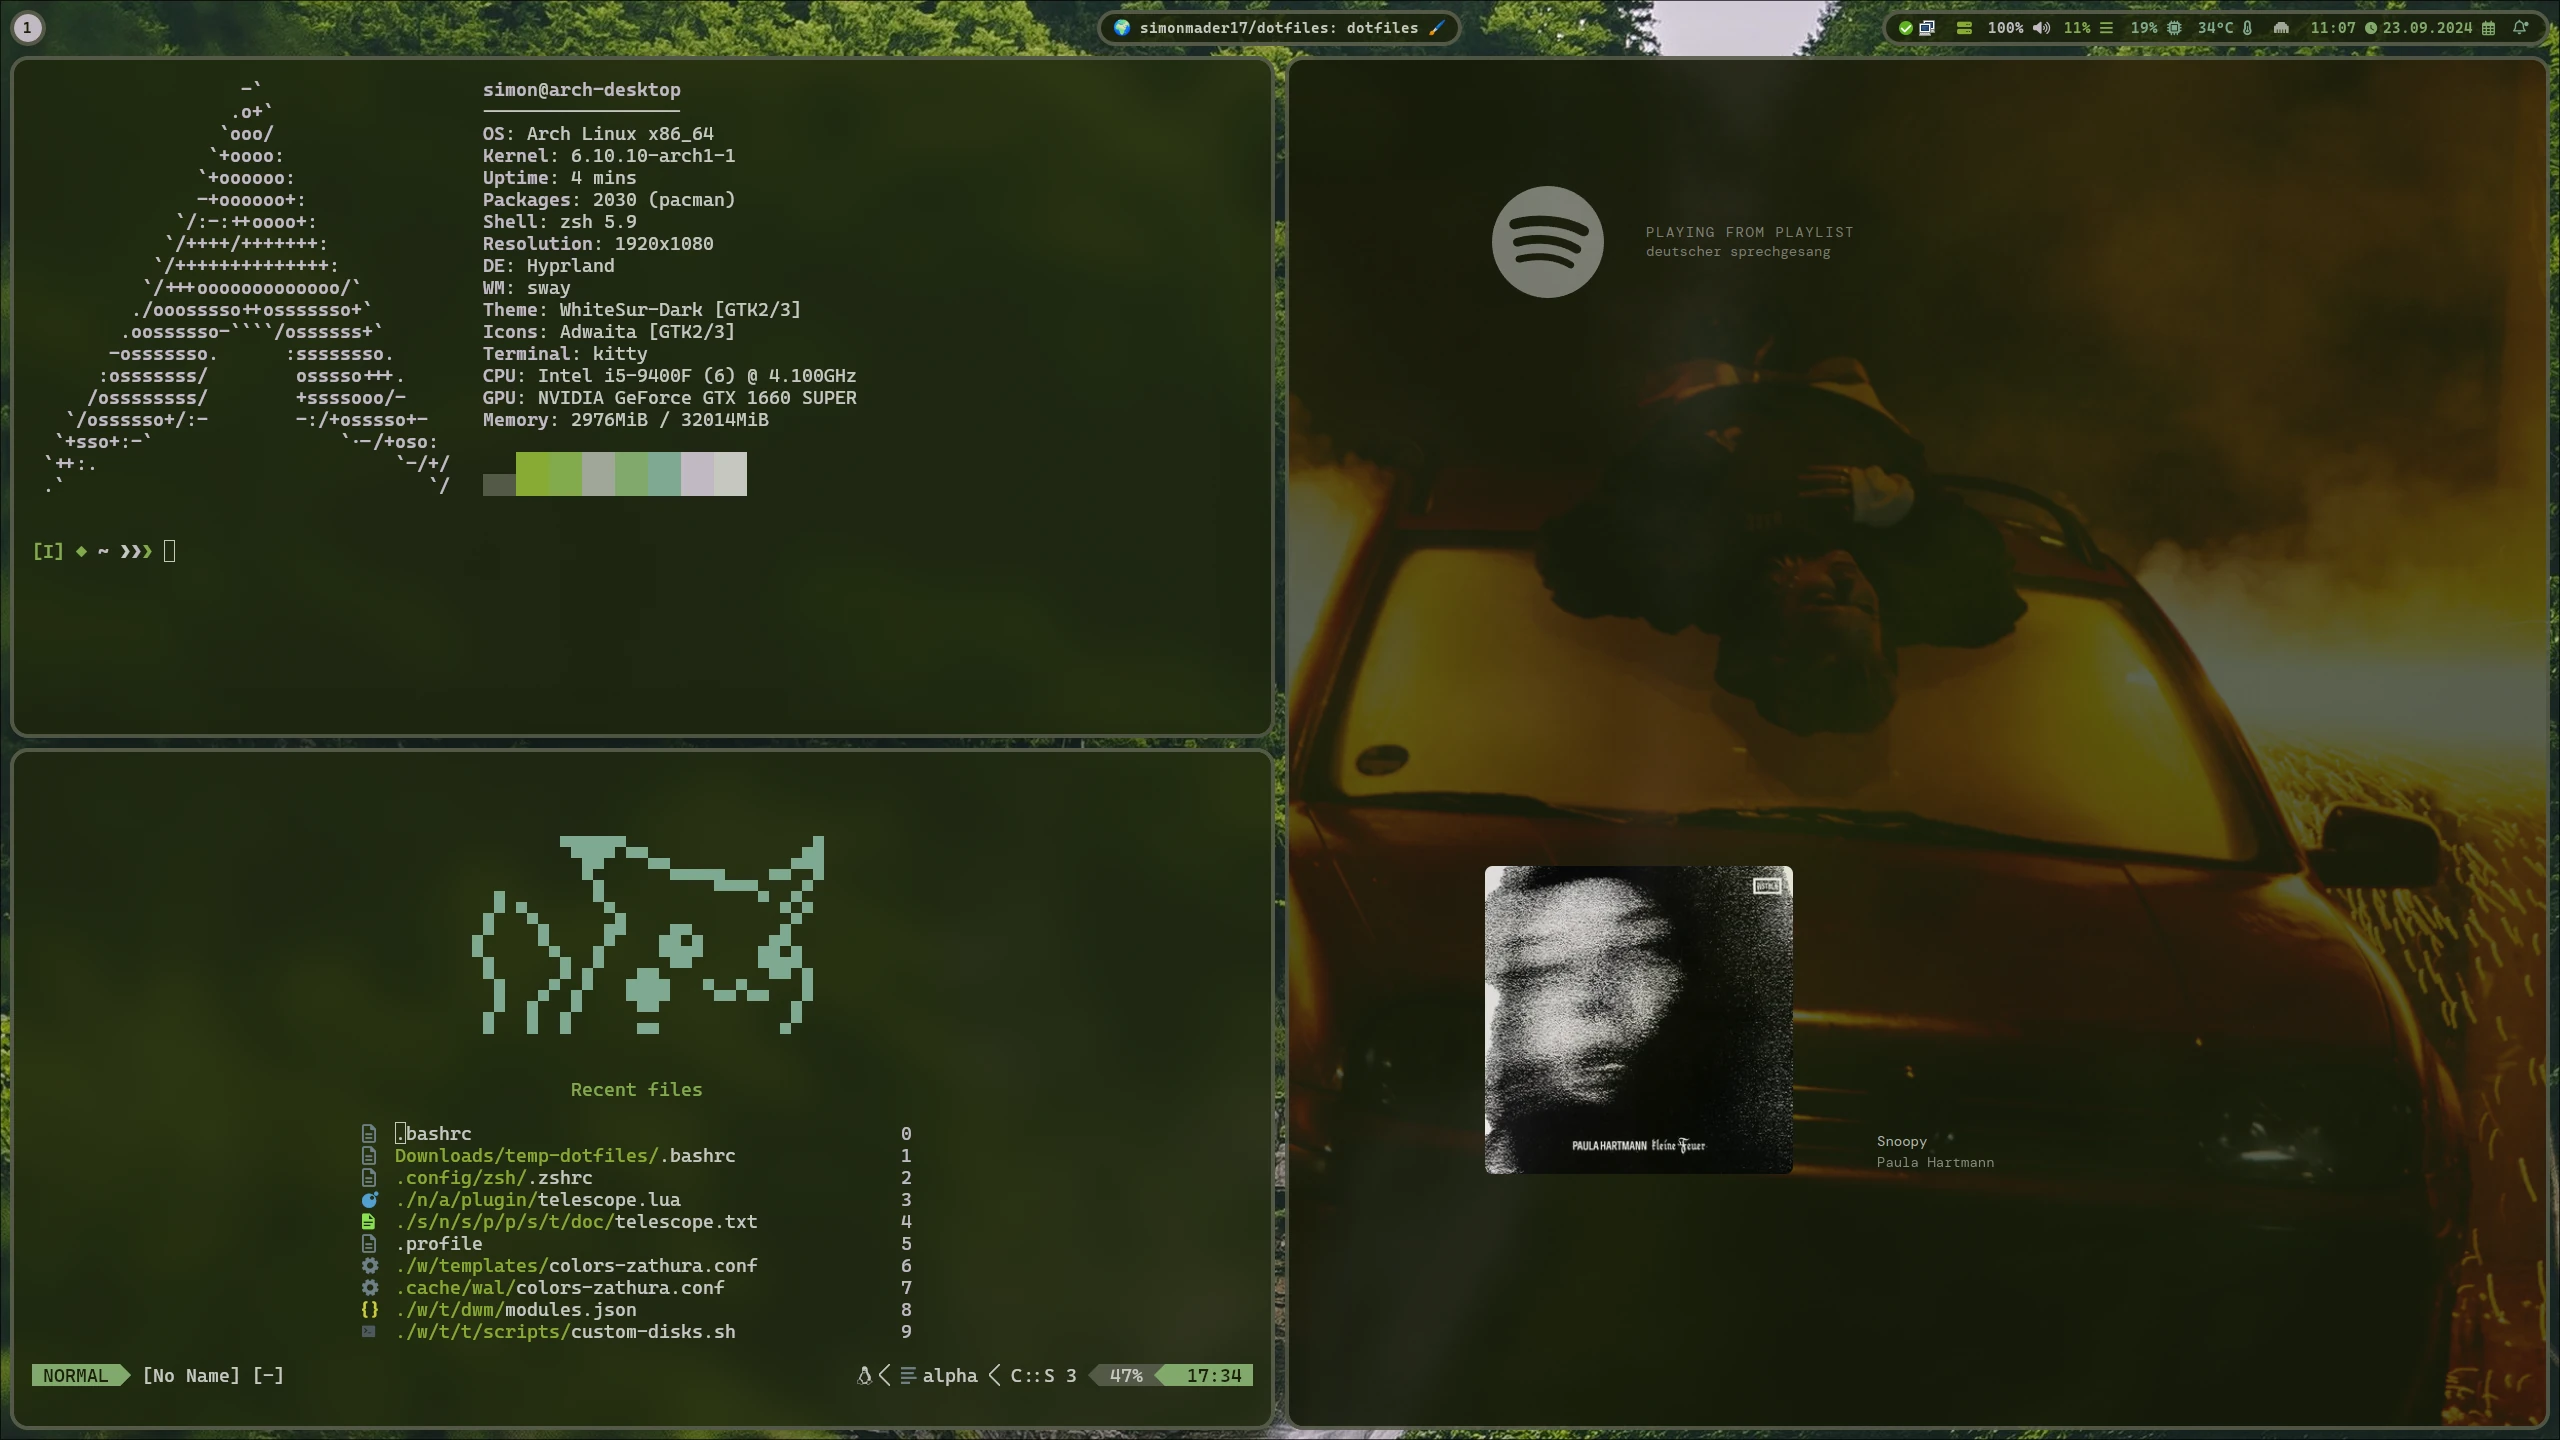
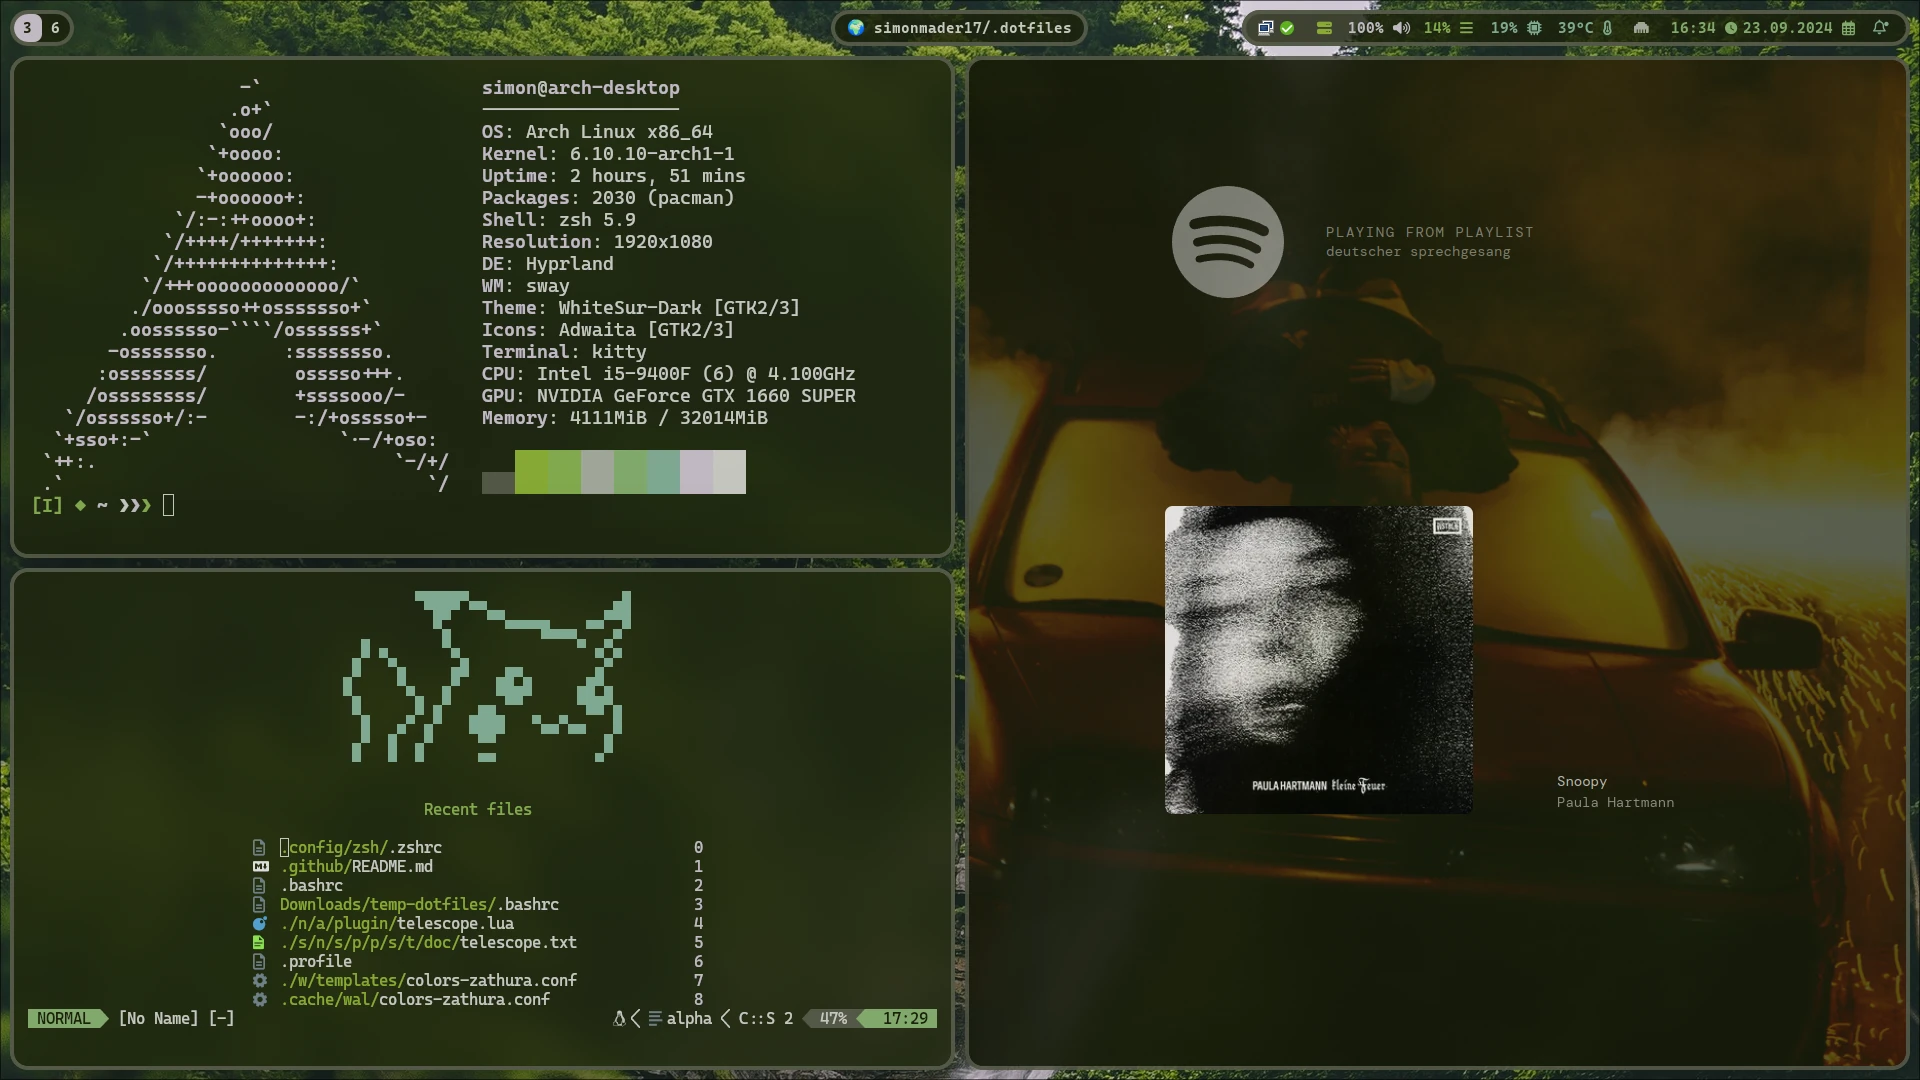
README

diff --git a/.github/README.md b/.github/README.md
@@ -5,14 +5,15 @@
 Recreate this setup:
 
 ```
-$ git clone --bare git@github.com:simonmader17/.dotfiles.git $HOME/.dotfiles
-$ alias dotfiles='/usr/bin/git --git-dir="$HOME/.dotfiles/" --work-tree="$HOME"'
-$ dotfiles checkout
-$ dotfiles config --local status.showUntrackedFiles no
+git clone --bare git@github.com:simonmader17/.dotfiles.git $HOME/.dotfiles
+alias dotfiles='/usr/bin/git --git-dir="$HOME/.dotfiles/" --work-tree="$HOME"'
+dotfiles checkout
+dotfiles submodule update --init --recursive
+dotfiles config --local status.showUntrackedFiles no
 ```
 
 To overwrite your local config files, do this instead:
 
 ```
-$ dotfiles checkout -f
+dotfiles checkout -f
 ```
